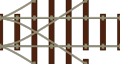
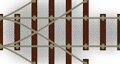
add particle obstacle and images.

diff --git a/qml/particles/SplatterParticle.qml b/qml/particles/SplatterParticle.qml
@@ -4,80 +4,6 @@ import QtQuick 1.1
 Particle {
   id: splatterParticle
 
-  property string particleConfigurationProperties : "Particle Configuration"
-  property string gravityMode : "Gravity Mode"
-  property string radiationMode : "Radiation Mode"
-  property string colorAppearance : "Color"
-  property string appearance : "Appearance"
-  property string emitterLocation: "Emitter Location"
-  property string emmiterBehaviour: "Emitter Behaviour"
-  // The EditableComponent is used by the Particle Editor for automatic generation of the property GUI.
-  // It is not needed for particles which finished and added to a game.
-  EditableComponent {
-    id: editableEditorComponent
-    target: splatterParticle
-    type: "SplatterParticle"
-    properties: {
-      // Particle location properties
-      //"x":                          {"minimum": 0, "maximum": typeof gameWindow !== "undefined" ? gameWindow.width : 512, "label": "Position X", "group": emitterLocation},
-      //"y":                          {"minimum": 0, "maximum": typeof gameWindow !== "undefined" ? gameWindow.height : 512, "label": "Position Y", "group": emitterLocation},
-      "sourcePositionVariance":     {"minimum": {x:0,y:0}, "maximum": {x:1000,y:1000}, "invert": true, "label": "Position Variance", "group": emitterLocation},
-
-      // Particle configuration properties
-      "maxParticles":               {"minimum": 0, "maximum": 50, "label": "Particle Count", "color": "red","group": particleConfigurationProperties},
-      "particleLifespan":           {"minimum": 0, "maximum": 1, "stepsize": 0.01, "label": "Lifespan", "color": "red","group": particleConfigurationProperties},
-      "particleLifespanVariance":   {"minimum": 0, "maximum": 1, "stepsize": 0.01, "label": "Lifespan Variance", "group": particleConfigurationProperties},
-      "startParticleSize":          {"minimum": 0, "maximum": 512, "label": "Start Size", "group": particleConfigurationProperties},
-      "startParticleSizeVariance":  {"minimum": 0, "maximum": 512, "label": "Start Size Variance", "group": particleConfigurationProperties},
-      "finishParticleSize":         {"minimum": 0, "maximum": 512, "label": "End Size Variance", "group": particleConfigurationProperties},
-      "finishParticleSizeVariance": {"minimum": 0, "maximum": 512, "label": "End Size Variance", "group": particleConfigurationProperties},
-      "rotation":                   {"minimum": 0, "maximum": 360, "label": "Emit Angle", "group": particleConfigurationProperties},
-      "angleVariance":              {"minimum": 0, "maximum": 360, "label": "Emit Angle Variance", "group": particleConfigurationProperties},
-      "rotationStart":              {"minimum": -360, "maximum": 360, "label": "Start Spin", "group": particleConfigurationProperties},
-      "rotationStartVariance":      {"minimum": -360, "maximum": 360, "label": "Start Spin Variance", "group": particleConfigurationProperties},
-      "rotationEnd":                {"minimum": -360, "maximum": 360, "label": "End Spin", "group": particleConfigurationProperties},
-      "rotationEndVariance":        {"minimum": -360, "maximum": 360, "label": "End Spin Variance", "group": particleConfigurationProperties},
-
-      // Emitter Behaviour
-      "emitterType":                {"minimum": Particle.Gravity, "maximum": Particle.Radius, "stepsize": 1, "label": "Particle Mode", "group": emmiterBehaviour},
-      "duration":                   {"minimum": Particle.Infinite, "maximum": 10, "stepsize": 0.01, "label": "Duration", "group": emmiterBehaviour},
-      "positionType":               {"minimum": Particle.Free, "maximum": Particle.Grouped, "stepsize": 1, "label": "Position Type", "group": emmiterBehaviour},
-
-      // Gravity Mode (Gravity + Tangential Accel + Radial Accel)
-      "gravity":                    {"minimum": {x:-1000,y:-1000}, "maximum": {x:1000,y:1000}, "label": "Gravity", "group": gravityMode},
-      "speed":                      {"minimum": 0, "maximum": 1000, "label": "Speed", "color": "red","group": gravityMode},
-      "speedVariance":              {"minimum": 0, "maximum": 1000, "label": "Speed Variance", "group": gravityMode},
-      "tangentialAcceleration":     {"minimum": -1000, "maximum": 1000, "label": "Tangential Acceleration", "group": gravityMode},
-      "tangentialAccelVariance":    {"minimum": -1000, "maximum": 1000, "label": "Tangential Acceleration Variance", "group": gravityMode},
-      "radialAcceleration":         {"minimum": -1000, "maximum": 1000, "label": "Radial Acceleration", "group": gravityMode},
-      "radialAccelVariance":        {"minimum": -1000, "maximum": 1000, "label": "Radial Acceleration Variance", "group": gravityMode},
-
-      // Radiation Mode (circular movement)
-      "minRadius":                  {"minimum": 0, "maximum": 512, "label": "Minimal Radius", "group": radiationMode},
-      "minRadiusVariance":          {"minimum": 0, "maximum": 512, "label": "Minimal Radius Variance", "group": radiationMode},
-      "maxRadius":                  {"minimum": 0, "maximum": 512, "label": "Maximal Radius", "group": radiationMode},
-      "maxRadiusVariance":          {"minimum": 0, "maximum": 512, "label": "Maximal Radius Variance", "group": radiationMode},
-      "rotatePerSecond":            {"minimum": 0, "maximum": 360, "label": "Rotation per second", "group": radiationMode},
-      "rotatePerSecondVariance":    {"minimum": 0, "maximum": 360, "label": "Rotation per second Variance", "group": radiationMode},
-
-      // Currently not supported by itemIditor
-      // Appearance // use minimum 1 so the oppacity of the color rectangle does not vanish
-      "startColor":                 {"minimum": 1, "maximum": 255,"stepsize": 1, "label": "Start Color", "group": colorAppearance},
-      "startColorVariance":         {"minimum": 1, "maximum": 255,"stepsize": 1, "label": "Start Color Variance", "group": colorAppearance},
-      "finishColor":                {"minimum": 1, "maximum": 255,"stepsize": 1, "label": "End Color", "group": colorAppearance},
-      "finishColorVariance":        {"minimum": 1, "maximum": 255,"stepsize": 1, "label": "End Color Variance", "group": colorAppearance},
-      "blendFuncSource":            {"minimum": Particle.GL_ONE, "maximum": Particle.GL_ONE_MINUS_SRC_ALPHA, "label": "Blend Source", "group": appearance},
-      "blendFuncDestination":       {"minimum": Particle.GL_ONE, "maximum": Particle.GL_ONE_MINUS_SRC_ALPHA, "label": "Blend Destination", "group": appearance},
-      "textureFileName":            {"label": "Texture", "group": appearance},
-
-      // Following properties do not have any group and go to the default group: Properties
-      // should not be changable, depends on particle count
-      //"emissionRate":    {"minimum": 0, "maximum": 1000, "label": "EmissionRate WARNING!", "color": "red"},
-      // should not be selectable, but to measure performance it's nice to disable the particle effect
-      "visible": {"default": true, "label": "Visible"},
-    }
-  }
-
   // Particle location properties
   x:-10
   y: 0
@@ -87,7 +13,7 @@ Particle {
   maxParticles: 20
   particleLifespan: 0.3
   particleLifespanVariance: 0.2
-  startParticleSize: 15
+  startParticleSize: 150
   startParticleSizeVariance: 6
   finishParticleSize: 5
   finishParticleSizeVariance: 0

diff --git a/qml/entities/Obstacle.qml b/qml/entities/Obstacle.qml
@@ -2,8 +2,10 @@
 import QtQuick 1.1
 import VPlay 1.0
 import Box2D 1.0 // needed for Body.Static
+import "../particles"
 
 EntityBase {
+  id: obstacle
   entityType: "obstacle"
 
   poolingEnabled: true
@@ -11,13 +13,33 @@ EntityBase {
   // put them before the track
   z:2
 
+  // drive curves with locomotive
+  property variant endPoint : 0
+  property bool followingPath: false
+  property real velocity: 200
+
+  property real offset: 20
+
+  property bool directionUp: true
 
   Component.onCompleted: {
-    console.debug("NEW Obstacle created")
+    //console.debug("NEW Obstacle created")
+    var propability = Math.random()
+     if(propability < 0.5) {
+       obstacle.directionUp = true
+     } else {
+       obstacle.directionUp = false
+     }
   }
 
   onUsedFromPool: {
-    console.debug("obstacle used from pool")
+    //console.debug("obstacle used from pool")
+    var propability = Math.random()
+     if(propability < 0.5) {
+       obstacle.directionUp = true
+     } else {
+       obstacle.directionUp = false
+     }
   }
 
   MultiResolutionImage {
@@ -28,6 +50,7 @@ EntityBase {
 //    height: 10
 
     anchors.centerIn: parent
+    rotation: directionUp ? 0 : 180
   }
 //  Rectangle {
 //    id: sprite
@@ -52,7 +75,43 @@ EntityBase {
     sensor: true
 
     //categories: level.
-
+    fixture.onBeginContact: {
+      var fixture = other;
+      var body = fixture.parent;
+      var component = body.parent;
+      var collidedEntity = component.owningEntity;
+      var collidedEntityType = collidedEntity.entityType;
+      if(collidedEntityType === "player") {
+        splatterParticle.start()
+      }
+    }
   }
 
+  NumberAnimation {
+   id: anim
+   duration: 200
+  }
+
+  function jump() {
+    if(directionUp) {
+      var point
+      point.x = obstacle.x
+      point.y = obstacle.y-level.trackSectionHeight
+      anim.to = point
+    } else {
+      point.x = obstacle.x
+      point.y = obstacle.y+level.trackSectionHeight
+      anim.to = point
+    }
+
+    anim.start()
+  }
+
+  SplatterParticle {
+    id: splatterParticle
+    x:100
+    Component.onCompleted: {
+      splatterParticle.stopLivingParticles()
+    }
+  }
 }

diff --git a/qml/entities/TrackSection.qml b/qml/entities/TrackSection.qml
@@ -62,7 +62,9 @@ EntityBase {
 
   MultiResolutionImage {
     id: sign
-    anchors.left: img.left
+    x: img.x-sign.width/2
+    z: parent.z+5
+    //anchors.left: img.left
     anchors.verticalCenter: img.verticalCenter
 
     visible: !(variationType==="straight") && (variationSource==="sender")
@@ -104,7 +106,7 @@ EntityBase {
       anchors.rightMargin: 1
 //      color: "brown"
     }
-    Rectangle {
+    /*Rectangle {
       id: rectTop
       x: variationSource === "sender" ? 0 : main.width-height
       anchors.bottom: main.top
@@ -137,7 +139,7 @@ EntityBase {
       height: 5
       color: "blue"
       visible: turnDirection === "down"
-    }
+    }*/
   }
 
   BoxCollider {

diff --git a/qml/Level.qml b/qml/Level.qml
@@ -479,11 +479,15 @@ Item {
         // Obstacle is in between
         else {
           // Dirty random boolean
-          var flag = !! Math.round(Math.random() * 1)
-          if (flag)
-            o.y += trackSectionHeight
-          else
-            o.y -= trackSectionHeight
+          //var flag = !! Math.round(Math.random() * 1)
+          o.jump()
+//          if (!o.directionUp) {
+//            o.jump(false) // jump down
+//            //o.y += trackSectionHeight
+//          } else {
+//            o.jump(true) // jump up
+//            //o.y -= trackSectionHeight
+//          }
         }
         return;
       }
